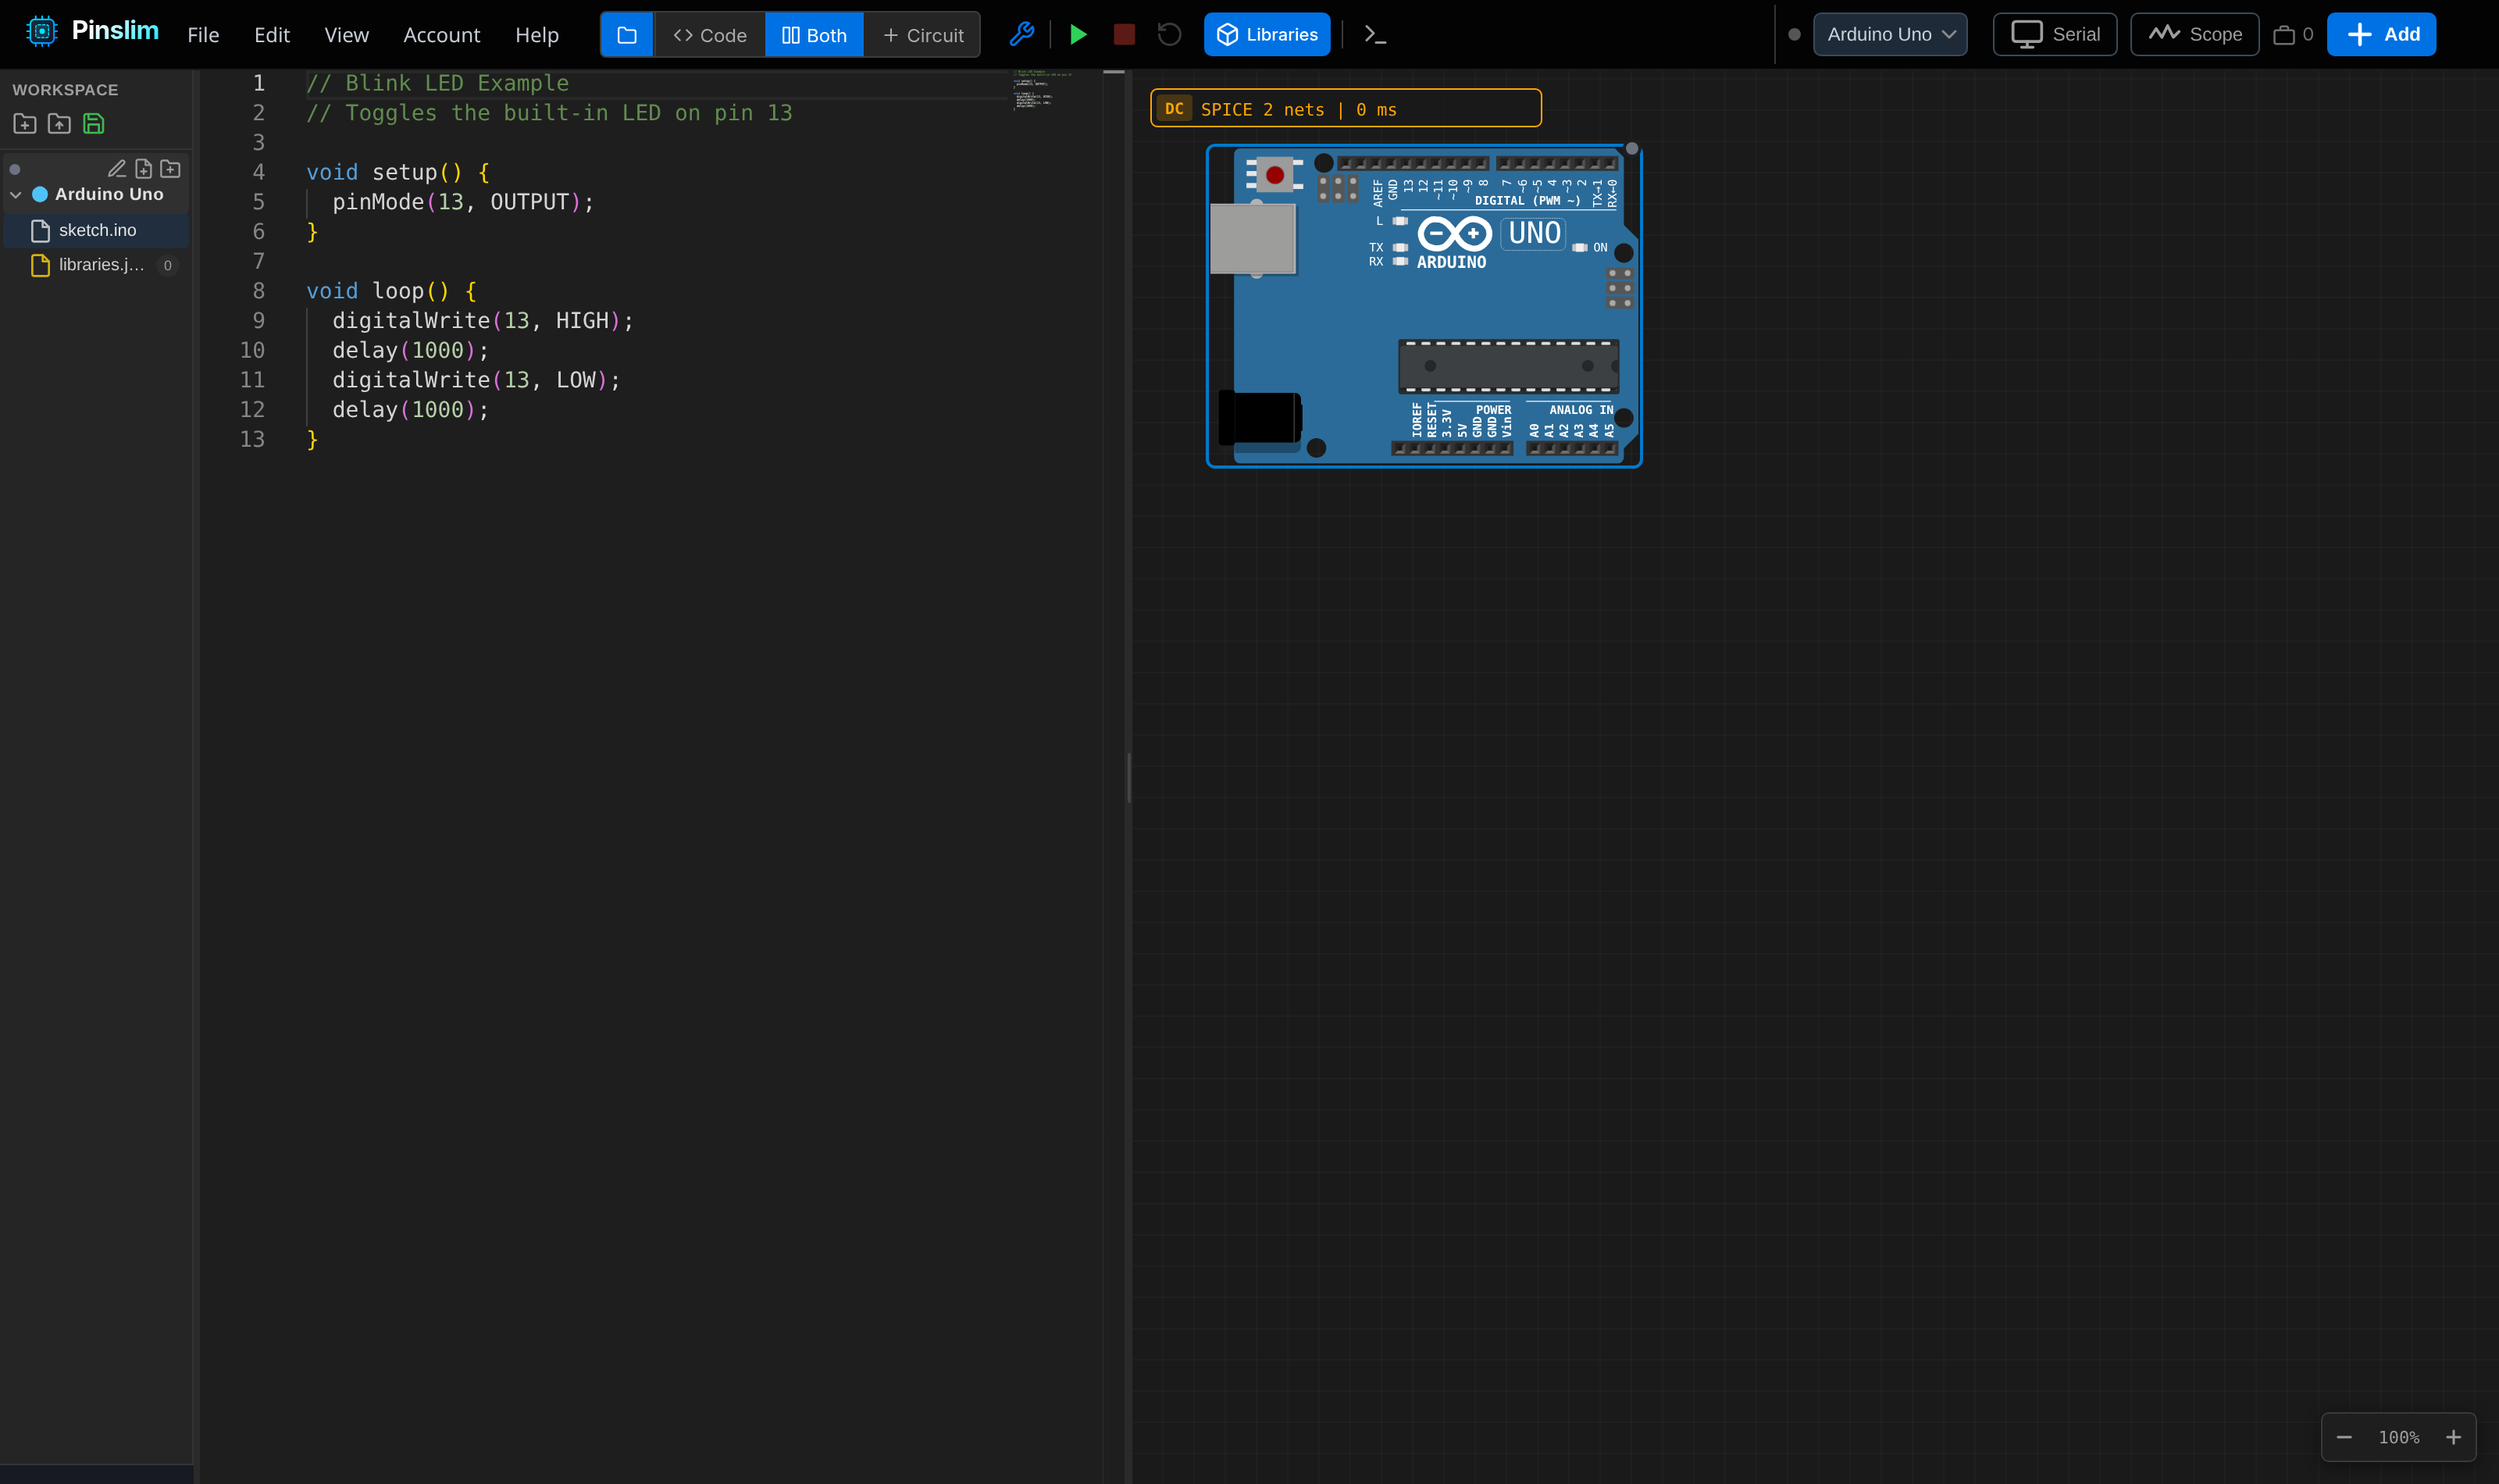
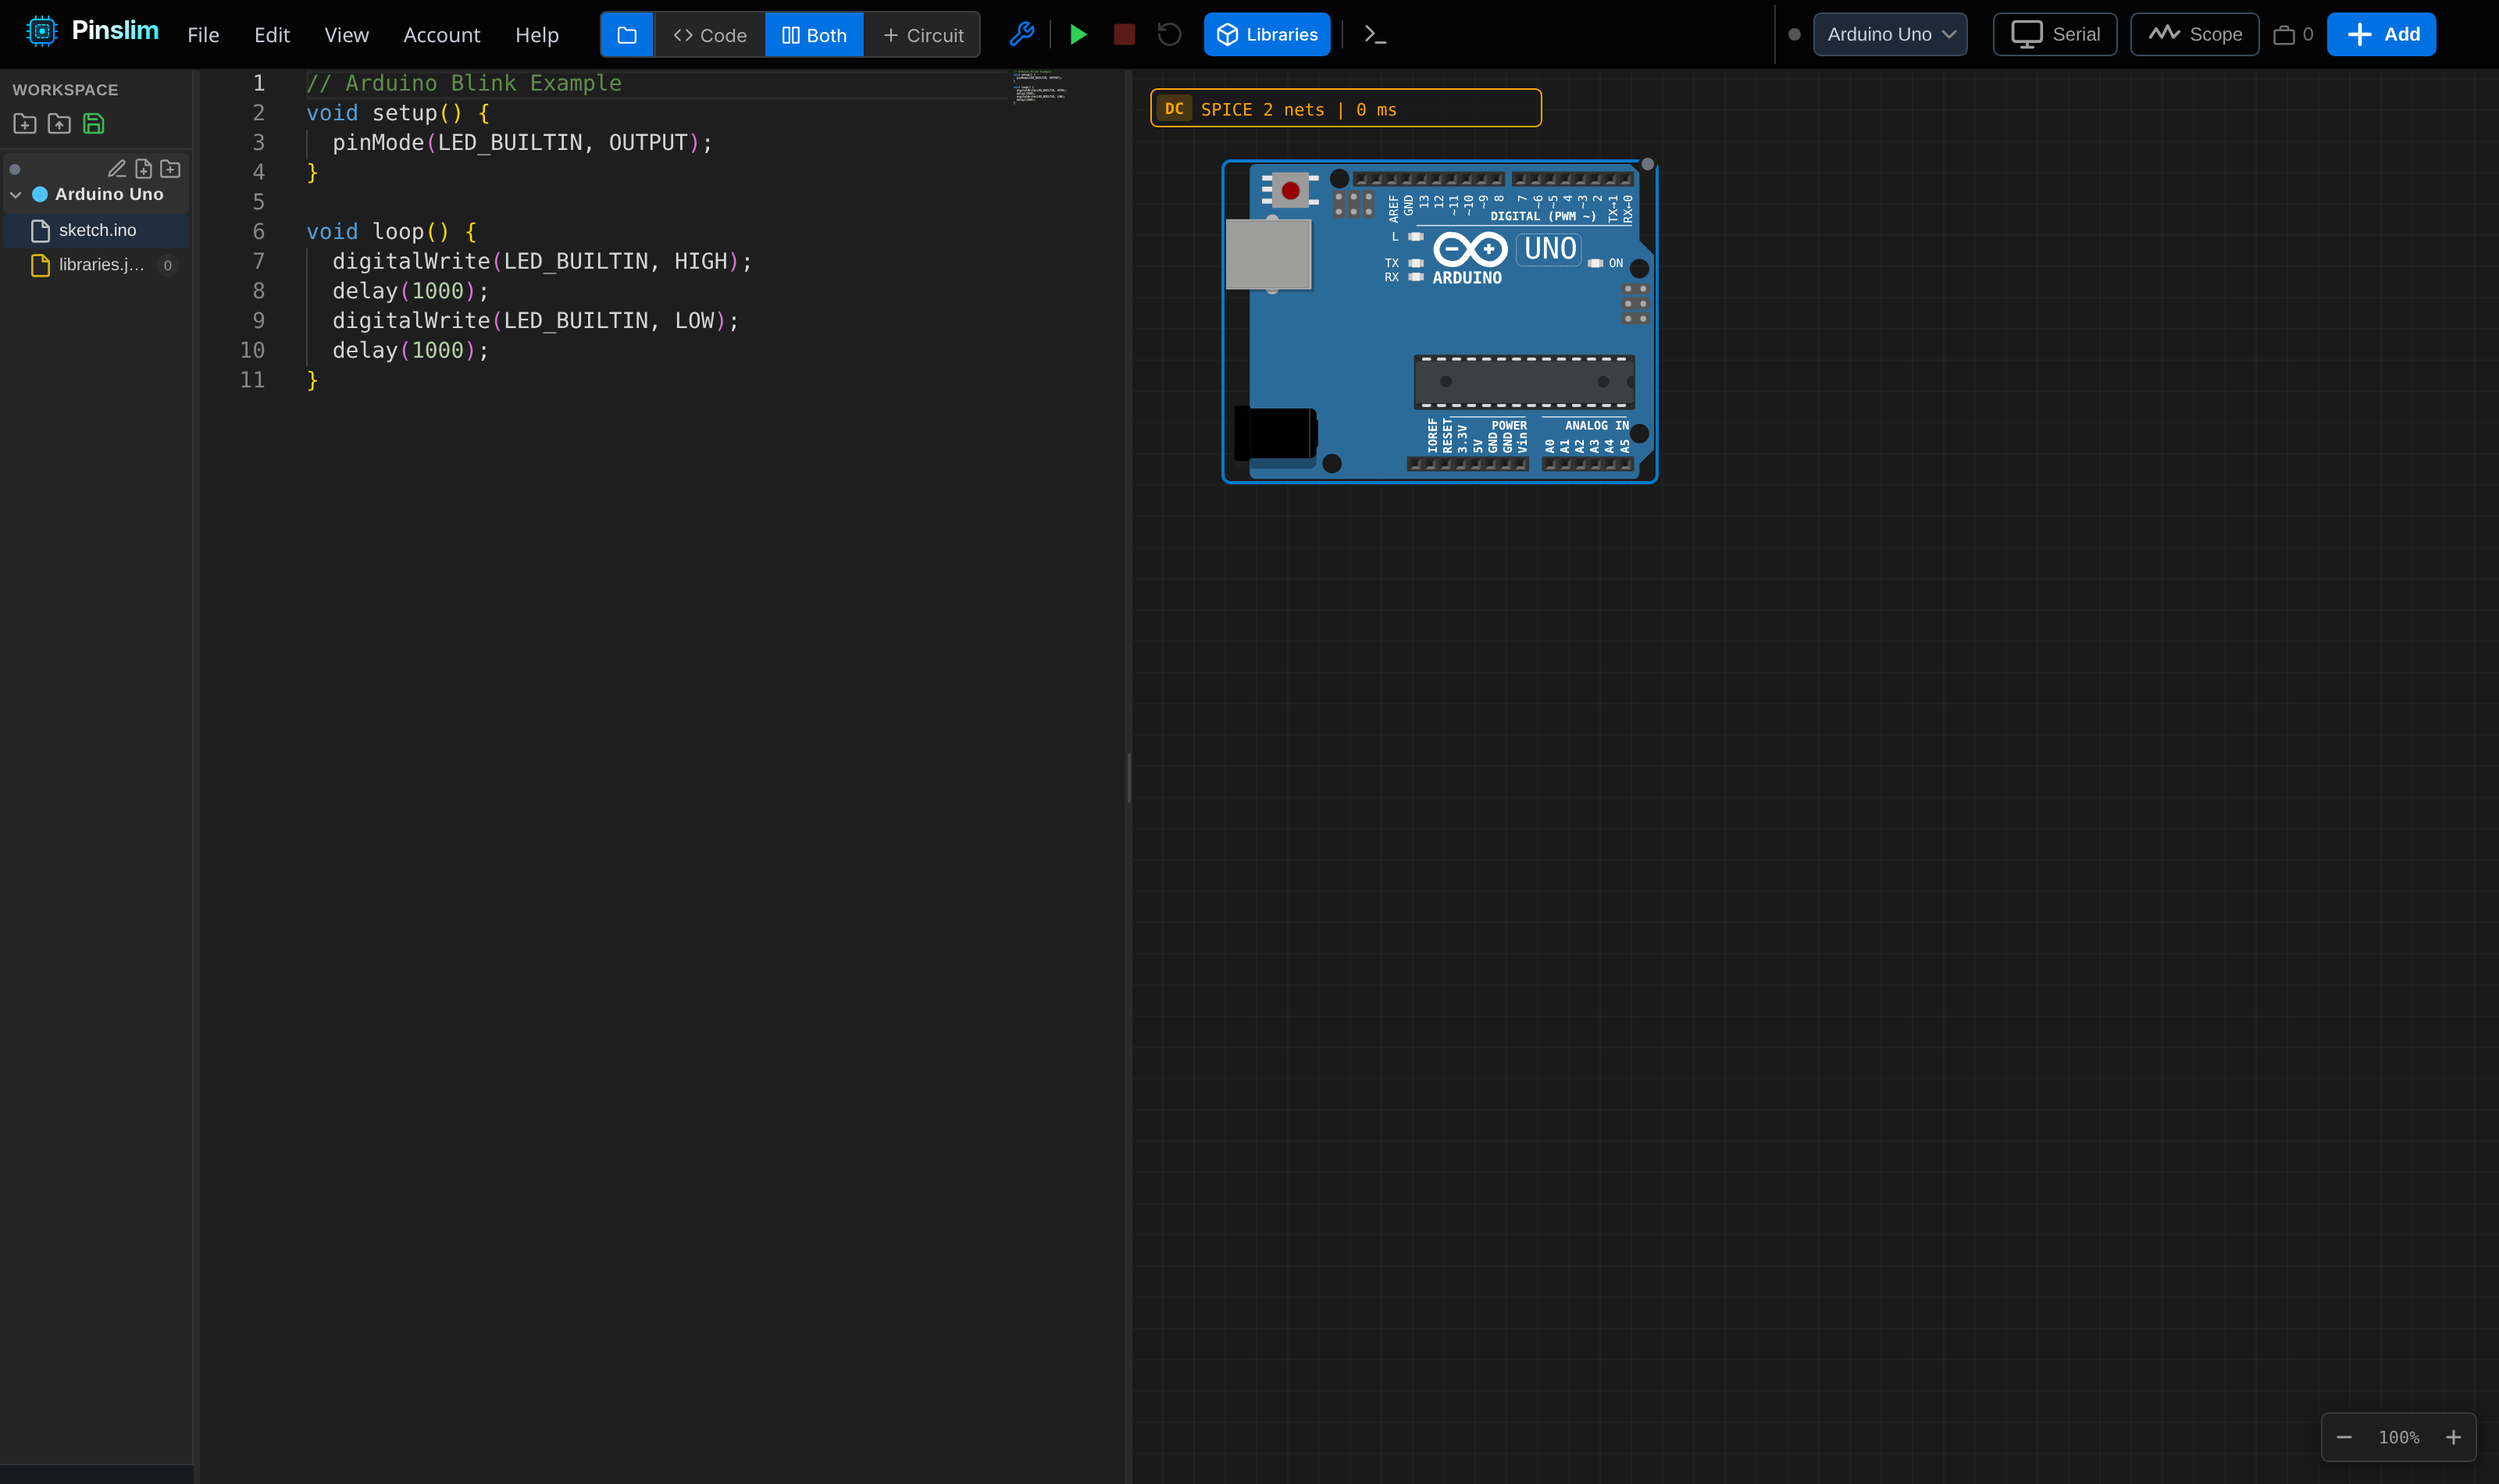
docs: add Portainer & Traefik stack deployment guide and template

diff --git a/README.md b/README.md
@@ -24,7 +24,9 @@ Write Arduino C++, MicroPython, or Python code, compile it, simulate real CPU ex
 
 ---
 
-## 🐳 Quick Start (Docker)
+## 🐳 Quick Start (Docker & Portainer)
+
+### Local Docker Compose
 
 To run Pinslim locally or on your server with Docker:
 
@@ -33,6 +35,16 @@ docker compose up -d --build
 ```
 
 Then open **<http://localhost:3082>** in your browser.
+
+### Portainer & Traefik Deployment
+
+When deploying Pinslim as a Stack in **Portainer** directly from the Git repository:
+
+* **Repository Branch**: Use `master` (e.g., `https://github.com/TJRSchmidbauer/pinslim.git#master`).
+* **Dockerfile Name**: Specify `Dockerfile.standalone` under `build.dockerfile`.
+* **Internal Port**: Set Traefik server loadbalancer port to `80` (internal Nginx port).
+
+A ready-to-use Stack template is available in [`docker/portainer-stack.yml`](docker/portainer-stack.yml).
 
 ---
 

diff --git a/SECURITY.md b/SECURITY.md
@@ -137,5 +137,17 @@ volumes:
   velxio-build:
 ```
 
+
+---
+
+## 🐋 Portainer & Traefik Stack Deployment
+
+Für Deployments über **Portainer** steht eine einsatzbereite Konfigurationsdatei unter [`docker/portainer-stack.yml`](docker/portainer-stack.yml) zur Verfügung.
+
+Wichtige Punkte für Portainer Stacks aus Git:
+- **Repository Branch**: `#master` verwenden (nicht `main`).
+- **Dockerfile**: `dockerfile: Dockerfile.standalone` angeben.
+- **Port-Routing**: Traefik-Loadbalancer auf Port `80` richten (`traefik.http.services.pinslim.loadbalancer.server.port=80`).
+
 ---
 *Dokumentation erstellt für Pinslim Server Deployments.*
